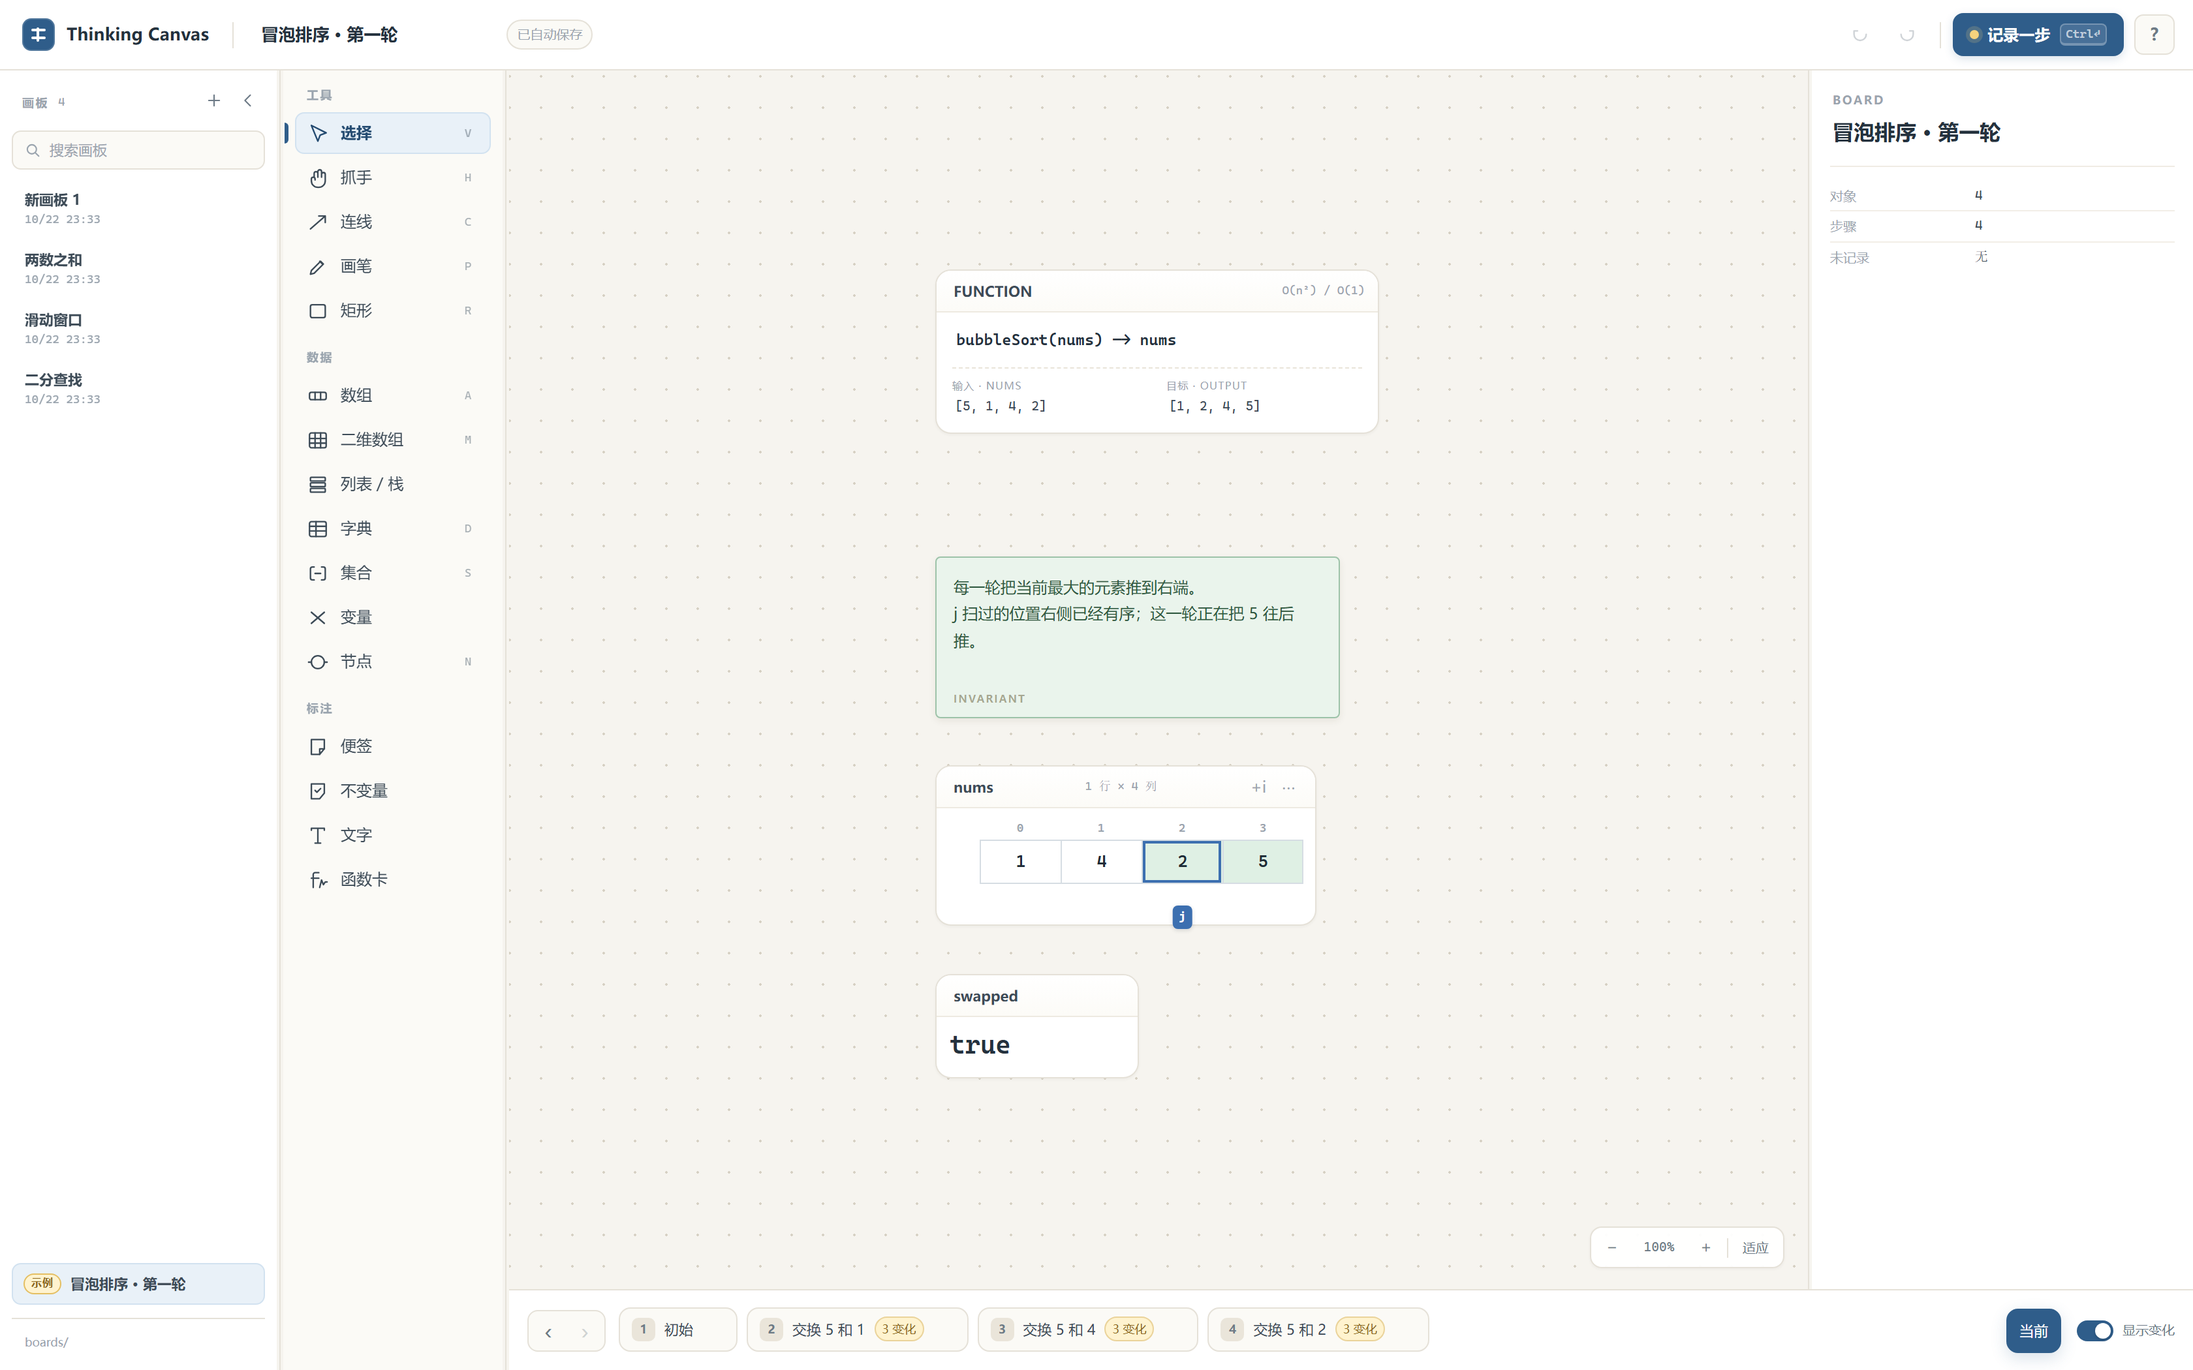
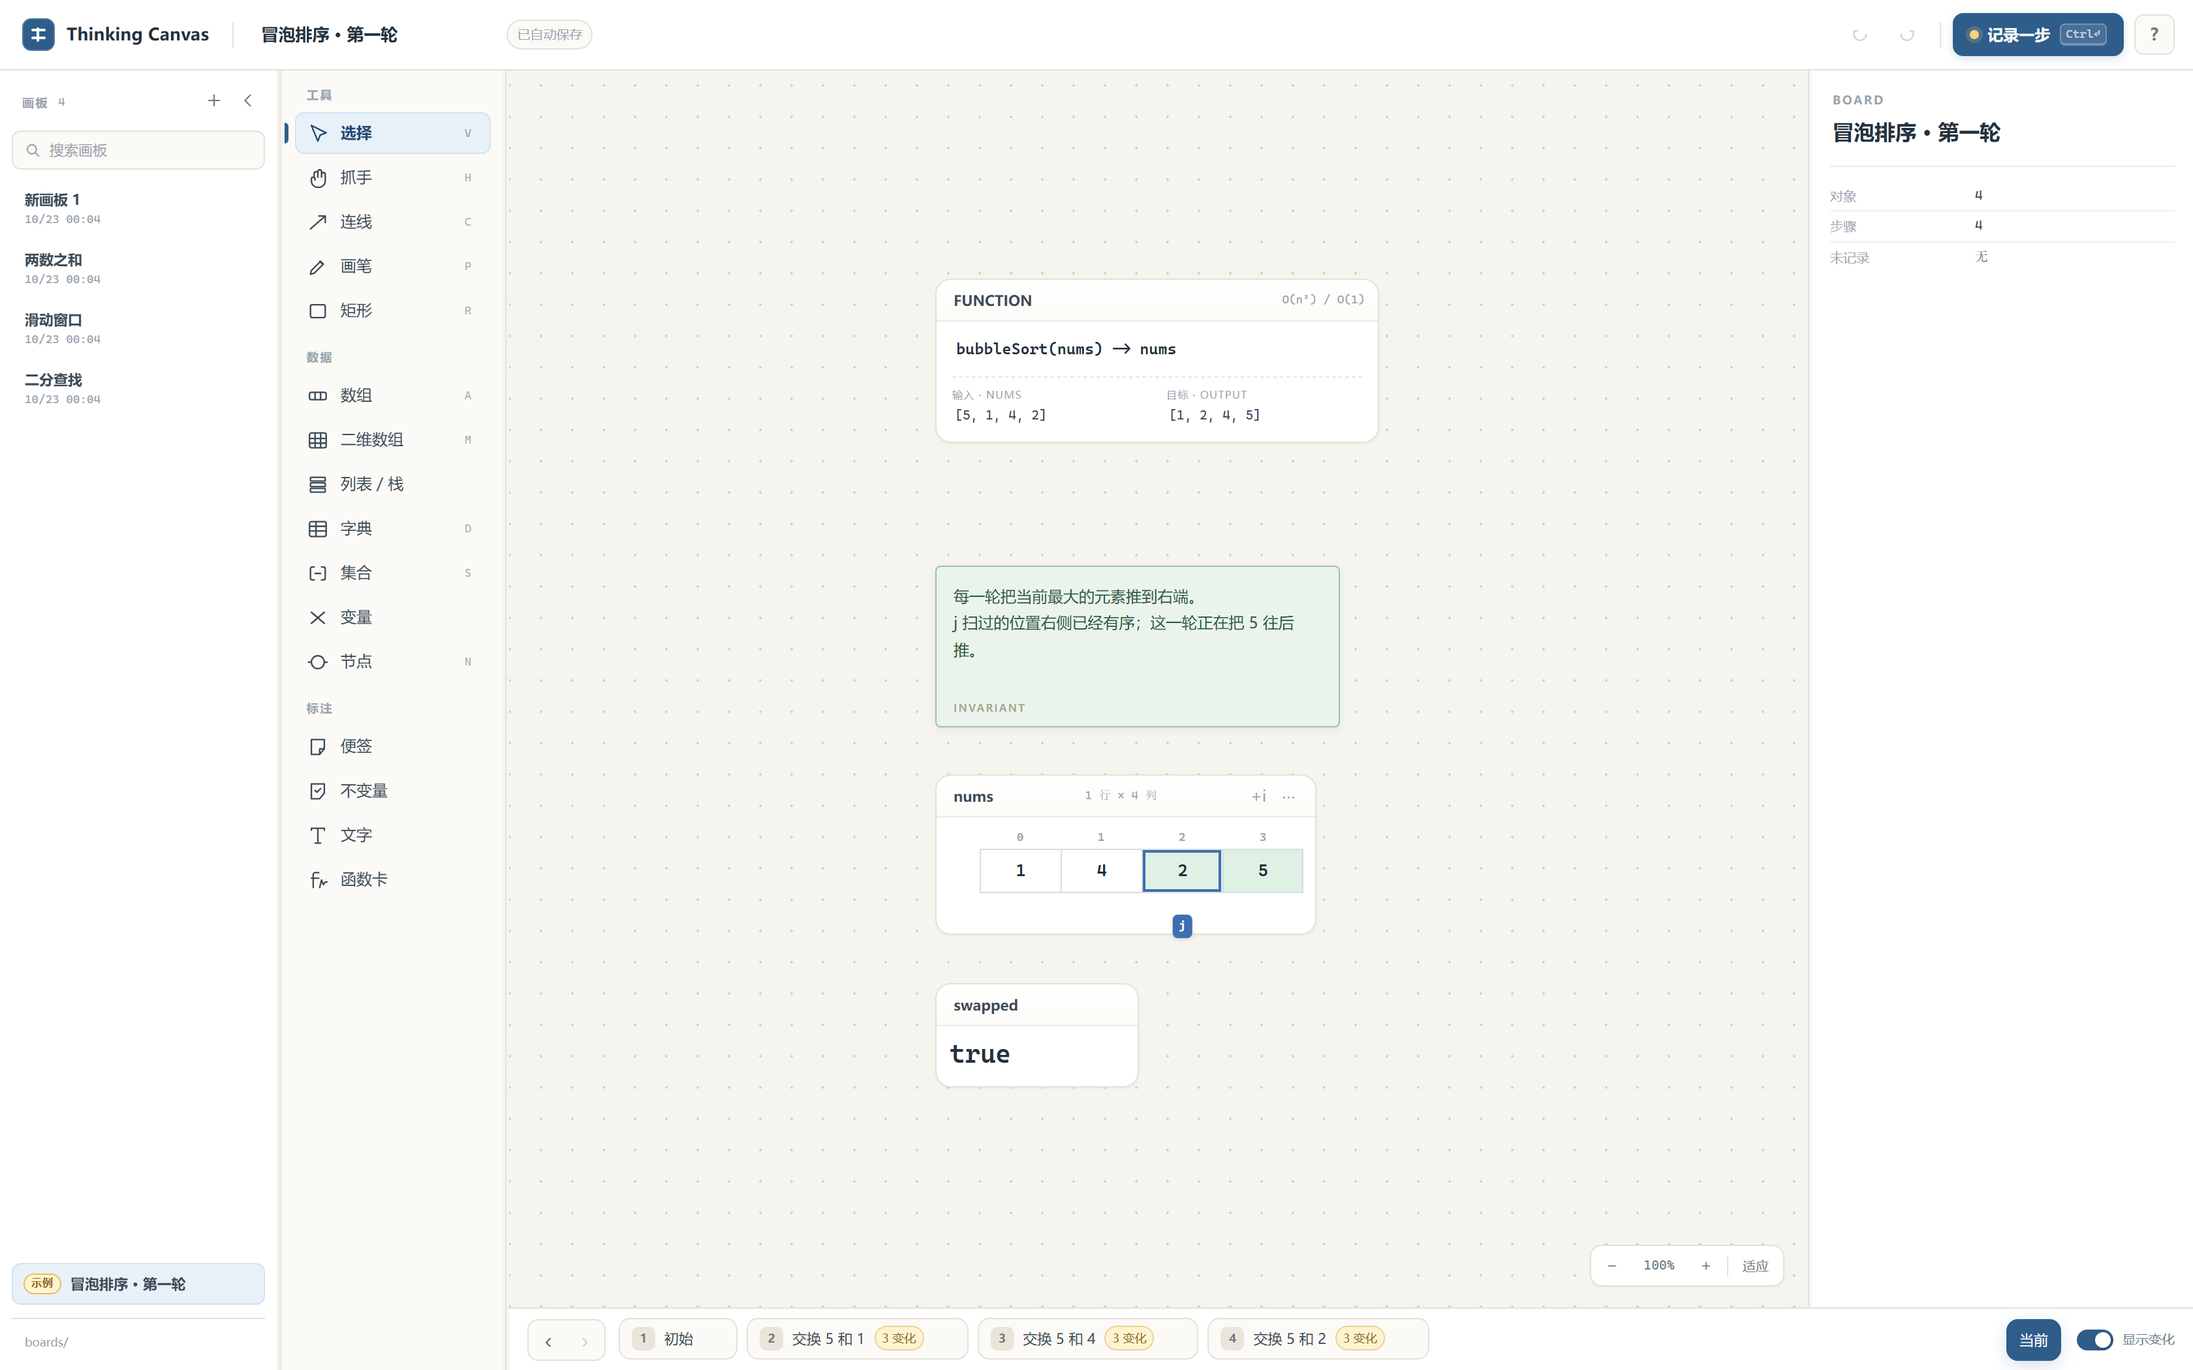
perf: lower the timeline and prune workspace noise
- reduce the timeline from 62px to 48px with 32px step chips
- remove scratch browser profiles, build intermediates and stale caches
- compress per-directory backlogs to current constraints
- consolidate one orphaned long-term memory entry
- refresh screenshots and document the 48px footer

diff --git a/web/css/app.css b/web/css/app.css
@@ -892,7 +892,7 @@ body.pane-dragging .workspace * {
   display: flex;
   align-items: center;
   gap: 8px;
-  padding: 8px 14px;
+  padding: 6px 14px;
   min-width: 0;
   z-index: 6;
 }
@@ -939,7 +939,7 @@ body.pane-dragging .workspace * {
   gap: 7px;
   overflow-x: auto;
   overflow-y: hidden;
-  padding: 3px 2px 5px;
+  padding: 1px 2px 3px;
   scrollbar-width: thin;
 }
 
@@ -948,7 +948,7 @@ body.pane-dragging .workspace * {
   display: flex;
   align-items: center;
   gap: 7px;
-  height: 34px;
+  height: 32px;
   border: 1px solid var(--line);
   border-radius: 9px;
   background: var(--surface-soft);

diff --git a/web/css/tokens.css b/web/css/tokens.css
@@ -35,7 +35,7 @@
   --tools-w: 168px;
   --inspector-w: 292px;
   --pane-split: 5px;
-  --timeline-h: 62px;
+  --timeline-h: 48px;
   --scroll-thumb: #cec7b9;
   --scroll-thumb-hover: #b3aa99;
   --font-ui: "Inter", "Noto Sans SC", "Microsoft YaHei", system-ui, -apple-system, sans-serif;

diff --git a/tests/test_api.py b/tests/test_api.py
@@ -74,7 +74,7 @@ def test_app_info_reports_data_dir(tmp_path):
     api = FileApi(data_dir=tmp_path, boards_dir=tmp_path / "boards")
     info = api.app_info()
     assert info["ok"] is True
-    assert info["version"] == "0.3.2"
+    assert info["version"] == "0.3.3"
     assert info["dataDir"] == str(tmp_path)
 
 

diff --git a/app/api.py b/app/api.py
@@ -112,7 +112,7 @@ class FileApi:
 
         return {
             "ok": True,
-            "version": "0.3.2",
+            "version": "0.3.3",
             "platform": platform.system(),
             "dataDir": str(self._data_dir()),
             "boardsDir": str(self._boards_dir()),

diff --git a/docs/实时进度.md b/docs/实时进度.md
@@ -22,7 +22,8 @@
[3 lines of base64/hex data omitted]
-| 截图 | 已完成 | `screenshots/hero.png`、`screenshots/empty.png`（2x，1680×1050；v0.3.2 hero 含数组尺寸中文化） |
[1 lines of base64/hex data omitted]
+| 截图 | 已完成 | `screenshots/hero.png`、`screenshots/empty.png`（2x，1680×1050；v0.3.3 48px 时间线） |
 | 表格清晰度 | 已完成 | fit 不再放大超过 100%；表格 13px/500、网格线加深；100% 下 1:1 截图清晰 |
 | 公开仓库 | 已完成 | https://github.com/qi001007/thinking-canvas（公开） |
 | GitHub Pages | 已完成 | https://qi001007.github.io/thinking-canvas/ 返回 200，hero 图 200 |
@@ -92,3 +93,14 @@
 | 文档与记忆 | 已完成 | 设计规范新增第 17–18 条；ADR-011；跨项目记忆同步 |
[1 lines of base64/hex data omitted]
 | CI / Pages（v0.3.2） | 已完成 | CI（含 Node/pytest）与 Pages 均成功；首页与 hero 200，线上 hero 哈希与本地一致 |
+
+## 0.3.3 批次（2026-10-23）
+
+| 项目 | 状态 | 证据 / 说明 |
+|---|---|---|
+| 时间线再压缩 | 已完成 | 62→48px，步骤 chip 34→32px；1100 宽实测时间线 48、chip 32，横向滚动存在但不裁切 |
+| 项目清理 | 已完成 | 删除 `.scratch` 1.8 GB（无头 Edge profile）、`build`/`dist`/`.build`/PyInstaller spec/缓存；工作区从约 1.9 GB 降到 64 MB；80 个受控文件不变 |
+| 长期记忆 | 已完成 | 51→50 个记忆文件；未索引的“交产物不交准备报告”并入按图判定条目；索引与磁盘一一对应 |
+| 文档瘦身 | 已完成 | 各目录 backlog 改为当前约束，不再逐日堆流水；截图/技术/产品/决策同步 48px |
+| 测试 | 已完成 | Node 18/18、pytest 11/11；源码 smoke 与窗口版 exe smoke 均 `ok: true`；正常窗口本轮受环境 WebView2 无响应，未计为通过证据 |
+| 发布 | 待完成 | 构建 v0.3.3 exe、截图、提交、Release 与 Pages |

diff --git a/docs/backlog.md b/docs/backlog.md
@@ -1,18 +1,5 @@
 # docs 变更记录
 
-- 2026-10-22：重写产品需求、技术、进度与编码原则，明确通用空白画布方向。
-- 2026-10-22：记录 PyInstaller 单文件发布包、构建命令、DLL 和 exe smoke 验收结果。
-- 2026-10-22：方向再调整：恢复步骤快照/差异/指针为核心，改为 pywebview 桌面版；新增决策记录、clean-room 说明、发布清单。
-- 2026-10-22：补充步骤/差异/指针/窗口版 exe smoke 证据；保留旧反馈并标注覆盖关系。
-- 2026-10-22：公开仓库、Pages 与 Release v0.1.0 发布完成；记录网址、附件大小与 SHA-256。
-- 2026-10-22：修复表格发糊：fit 上限 100%、表格 13px/500、网格线加深、截图改 2x；发布 v0.1.1。
-- 2026-10-22：画板统一到 `boards/`、侧栏管理、步骤删除、界面减负；新增前端设计规范与 v0.2.0 批次进度。
-- 2026-10-22：v0.2.0 已发布；画板侧栏/存储、步骤删除、简洁前端与设计规范交付。
-- 2026-10-22：v0.2.1 修补旧会话在已有画板时的迁移；pytest 9 项。
-- 2026-10-22：v0.2.1 已发布；补迁移已有画板时的旧会话；CI/Pages 成功。
-- 2026-10-22：v0.3.0 批次：画板/工具双栏与可拖边界、画板搜索、状态浮层、隐式滚动条、UI 状态持久化；设计规范补管理栏骨架。
-- 2026-10-22：v0.3.0 已发布；exe 12,821,954 字节，CI（含分栏测试）与 Pages 成功；hero 更新。
-- 2026-10-22：v0.3.1 批次：示例固定文件/唯一入口、唯一记录按钮、底栏 62px；ADR-010 与设计规范同步。
-- 2026-10-22：v0.3.1 已发布；exe 12,823,011 字节，CI/Pages 成功；hero 更新。
-- 2026-10-22：v0.3.2 批次：代码数组批量输入、卡片按钮接通、尺寸中文化、smoke 40s；ADR-011。
-- 2026-10-22：v0.3.2 已发布；exe 12,825,060 字节，CI/Pages 成功；hero 更新。
+- 文档分工：产品需求 / 技术 / 决策 / 进度 / 反馈 / 前端规范 / 编码原则；发布数字以 `实时进度.md` 和 GitHub Release 为准，历史版本看 CHANGELOG 与 git。
+- 2026-10-23：清理项目临时产物后，backlog 只保留“当前仍生效的约束”，不再逐日罗列已完成的改动。
+- 2026-10-23：v0.3.3 时间线压到 48px；项目清理与记忆精简。

diff --git a/docs/技术文档.md b/docs/技术文档.md
@@ -70,7 +70,7 @@ pywebview 桌面壳 (Python)
 - 画板栏最低压缩为 44px 图标轨道，工具栏最低压缩为 46px 图标轨道；点击画板轨道恢复上次宽度。窄窗按检查器 → 画板 → 工具的顺序压缩，画布至少保留 360px。
 - 分栏宽度存在 `boards/.ui-state.json`（源码运行=仓库根目录；打包=exe 旁边；smoke/测试用临时画板目录），与画板数据同目录。读取失败或超过 1.5 秒就使用默认宽度，不阻塞启动。
 - 状态提示是画布内的浮层（`status-float`），启动 6.5 秒或操作后约 3 秒自动隐藏，可点 × 关闭；隐藏时 `inert`，不进入 Tab 顺序。
-- 记录入口只保留顶栏蓝色按钮；时间线高度 62px，不再放第二个“记录一步”按钮。
+- 记录入口只保留顶栏蓝色按钮；时间线高度 48px（步骤 chip 32px），不再放第二个“记录一步”按钮。
 - 滚动条统一 8px、圆角、token 颜色；默认透明，仅在对应栏/容器 `:hover` 时显示。
 
 ## 画板存储与文件
@@ -91,7 +91,7 @@ pywebview 桌面壳 (Python)
 - 运行源码：`python app\shell.py`（需要 `pywebview`）。
 - 开发预览：`python scripts\serve.py`，浏览器打开 `http://127.0.0.1:8765`；开发服务器禁用缓存。
 - 打包：`.build-env\Scripts\python.exe scripts\build_exe.py`，或手写 PyInstaller 命令。
[2 lines of base64/hex data omitted]
 - Anaconda 环境打包时 PyInstaller 可能漏掉 `libcrypto-1_1-x64.dll`、`libssl-1_1-x64.dll`、`ffi.dll`；构建脚本会自动从 `sys.base_prefix/Library/bin` 带上。
 - 窗口版 exe 的 `--smoke` 结果同时写到 `%APPDATA%/ThinkingCanvas/smoke.json`，因为 windowed 进程没有可靠 stdout。
 

diff --git a/app/backlog.md b/app/backlog.md
@@ -1,10 +1,6 @@
 # app 变更记录
 
-- 2026-10-22：建立 pywebview 桌面壳、原生文件 API、会话自动保存与最近文件；提供 `--smoke` 验收入口。
-- 2026-10-22：smoke 改为前端回调 Python、结果落 `smoke.json`，避免 windowed 进程无 stdout；补 WebView2 临时 storage 解决正常启动 API 不挂载。
-- 2026-10-22：加入 app 图标、windowed 正常启动验证；构建脚本见 `scripts/build_exe.py`。
-- 2026-10-22：v0.1.1：fit 不放大超过 100%；版本号更新；窗口版 smoke 与正常窗口复验。
-- 2026-10-22：画板统一到应用旁 `boards/`；新增画板 API、`.trash` 删除、旧 session 迁移；版本 0.2.0。
-- 2026-10-22：新增 `boards/.ui-state.json` 与 `load_ui_state`/`save_ui_state`；版本 0.3.0；smoke 覆盖分栏与 UI 状态往返。
-- 2026-10-22：v0.3.1：`ensure_sample_board` 固定示例文件、`sample` 标记、示例防删；smoke 补示例稳定性。
-- 2026-10-22：v0.3.2：smoke 看门狗 25→40 秒，容纳单文件 exe 启动波动。
+- 桌面壳只负责窗口、文件 API、画板/UI 状态和原子写入，不掺画布逻辑。
+- 画板与 `.ui-state.json` 都放在应用旁 `boards/`；所有路径限制在目录内；删除进 `.trash`。
+- 示例固定为 `board-sample.tcanvas.json`，只在缺失时创建、不可删除。
+- smoke 看门狗 40 秒；本机 WebView2 窗口被遮挡时用 `WEBVIEW2_ADDITIONAL_BROWSER_ARGUMENTS=--disable-gpu` 复测。

diff --git a/docs/决策.md b/docs/决策.md
@@ -70,7 +70,7 @@
 ## ADR-010：示例是固定文件，动作只留一个显眼入口
 
 - 背景：点“示例”每次都会新建一个画板，误触后留下重复；示例被当成“新建”动作放在页脚/空状态/检查器/右键多个位置。同一个“记录一步”在顶栏和底栏各有一个可见按钮；84px 的底栏视觉重心偏重。
-- 决策：示例固定为 `boards/board-sample.tcanvas.json`，`ensure_sample_board` 只在缺失时创建，之后始终打开/保存同一文件，并拒绝删除；示例入口改为画板栏底部的固定示例行，删除其余示例入口。记录只保留顶栏蓝色按钮，时间线高度 84→62px。
+- 决策：示例固定为 `boards/board-sample.tcanvas.json`，`ensure_sample_board` 只在缺失时创建，之后始终打开/保存同一文件，并拒绝删除；示例入口改为画板栏底部的固定示例行，删除其余示例入口。记录只保留顶栏蓝色按钮，时间线高度 84→62→48px。
 - 原因：示例是“看的对象”而不是“新建动作”；同一动作只留一个显眼入口；压低底栏让画布和时间线更平衡。
 - 代价：示例不能被删除；旧版本已经生成的随机示例画板仍作为普通画板保留，需要用户自行清理，不做自动删除。
 - 后续：如果旧重复示例成为实际问题，再单独设计“清理旧示例”的确认流程。

diff --git a/web/js/ui/backlog.md b/web/js/ui/backlog.md
@@ -1,10 +1,6 @@
 # web/js/ui 变更记录
 
-- 2026-10-22：建立画布、渲染器、时间线、检查器、快捷键和桌面桥接。
-- 2026-10-22：补指针拖拽/目标描边、卡片间连线朝向边、历史只读、新建对象自动移入视口。
-- 2026-10-22：修复 pywebview API 挂载时序、记录后清除格子选择、空格与工具快捷键冲突。
-- 2026-10-22：fit 内边距 110→90，默认 1450 窗口下示例可按 100% 显示。
-- 2026-10-22：加入画板侧栏、自动保存/切换/删除、步骤 chip 删除；压缩检查器与状态文案。
-- 2026-10-22：新增 `panes.js`（拖拽/键盘/双击复位/轨道/持久化）；画板搜索；状态浮层自动隐藏；桌面 UI 状态桥接。
-- 2026-10-22：v0.3.1：`openSample` 固定文件复用；示例行；移除重复记录按钮与其余示例入口。
-- 2026-10-22：v0.3.2：`onCardToolClick` 接通 +i/⋯/＋；批量输入代码格式与实时预览；尺寸标签改中文。
+- UI 只改 `project` 后重渲染，不维护第二份数据；core 层不反向依赖 UI。
+- 画板/工具分栏由 `panes.js` 统一处理拖拽、键盘、轨道与宽度持久化。
+- 示例固定文件只创建一个；卡片 `+i`/`⋯`/`＋` 统一走 `onCardToolClick`，禁止无动作的图标。
+- 记录入口只保留顶栏蓝色按钮；时间线只负责回看/删除步骤。

diff --git a/docs/反馈.md b/docs/反馈.md
@@ -65,4 +65,12 @@
 - `1 × 4` 实际是数组尺寸，不是张量或“SEN”标签；界面已改成 `1 行 × 4 列`。项目目前没有 SEN 标签或张量卡片，张量支持仍在后续路线。
 - 设计规范/记忆补充“批量输入用代码字面量、卡片图标必须有动作”。
 
+## 2026-10-23：时间线再压低 + 项目/记忆清理（已完成）
+
+- 时间线 62→48px，步骤 chip 34→32px；1100 宽实测时间线 48、chip 32，横向滚动存在但不裁切；1680 截图确认底部不再过重。
+- 清理 `.scratch` 1.8 GB（无头 Edge 测试 profile）、`build`/`dist`/`.build`/PyInstaller spec/`__pycache__`/`src` 缓存；工作区约 1.9 GB→64 MB。
+- 各目录 backlog 改为当前约束，不再堆流水账；截图只保留 hero/empty。
+- 长期记忆 51→50 个文件：未索引的“完成标准是产物”并入按图判定条目，索引与磁盘一一对应。
+- 说明：变慢主要来自长对话和反复构建/截图，而不是受控源码；临时 profile 确实会拖慢扫描，已清理。
+
 后续（本轮不做）：补全算法/数据结构内容，先做教材调研，再设计栈、内存概念、高维张量与“字典 vs 列表”等易混淆概念。判据：能列出教材依据与每个概念的建卡方式，再单独排期。

diff --git a/web/css/backlog.md b/web/css/backlog.md
@@ -1,9 +1,6 @@
 # web/css 变更记录
 
-- 2026-10-22：建立 tokens/app/canvas/components 四层样式与响应式收缩（1100px 侧栏图标化）。
-- 2026-10-22：修正差异色被语义标记覆盖、指针目标描边、时间线记录按钮固定；连线置于卡片下层。
-- 2026-10-22：表格字号 13px/500、网格线加深、去掉全局灰度抗锯齿；100% 下更清晰。
-- 2026-10-22：画板侧栏样式、步骤删除按钮、时间线当前 chip 固定；1100px 保持侧栏文字。
-- 2026-10-22：7 列 Grid 双栏/分隔条/图标轨道；状态条改浮层；滚动条默认透明、悬停显示；画板搜索样式。
-- 2026-10-22：v0.3.1：示例固定行样式；时间线 62px、移除 step-add；清理空状态示例按钮样式。
-- 2026-10-22：v0.3.2：批量输入弹窗 360px、代码 textarea 88px、预览行；卡片尺寸标签。
+- 设计变量集中在 `tokens.css`，不新起近似颜色/字号/间距。
+- 7 列 Grid 双栏、可拖分隔条、图标轨道；画布至少保留 360px。
+- 时间线 48px；步骤 chip 32px；状态提示是自动隐藏浮层，记录入口只在顶栏。
+- 滚动条 8px、统一色，默认透明，悬停对应栏才显示；示例固定行在画板栏底部。
